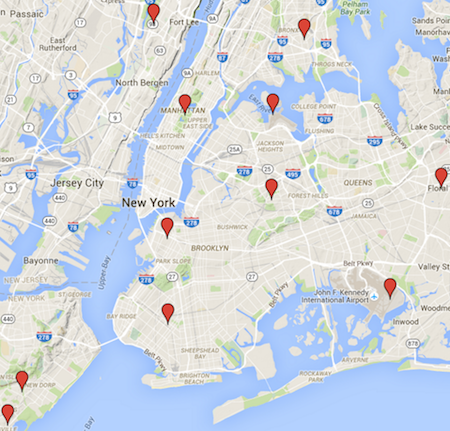
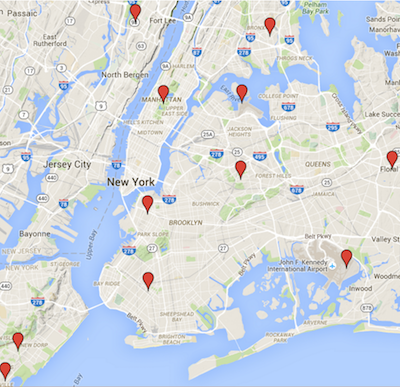
Redo weather stations image

diff --git a/README.md b/README.md
@@ -27,7 +27,7 @@ TODO: Name & Link to the dataset
 
 The dataset includes daily weather summaries of 11 station, distributed around NYC as follows:
 
-<img src="images/weather_stations.png" alt="Map weather stations" style="width: 250px;"/>
+![Map of weather stations](images/weather_stations.png)
 
 The information includes:
 
@@ -58,6 +58,8 @@ We'll to into detail about all the stages in the following sections.
 ### Evaluation Pipeline
 
 ## Results
+
+As part of 
 
 ### Model Evaluation
 
